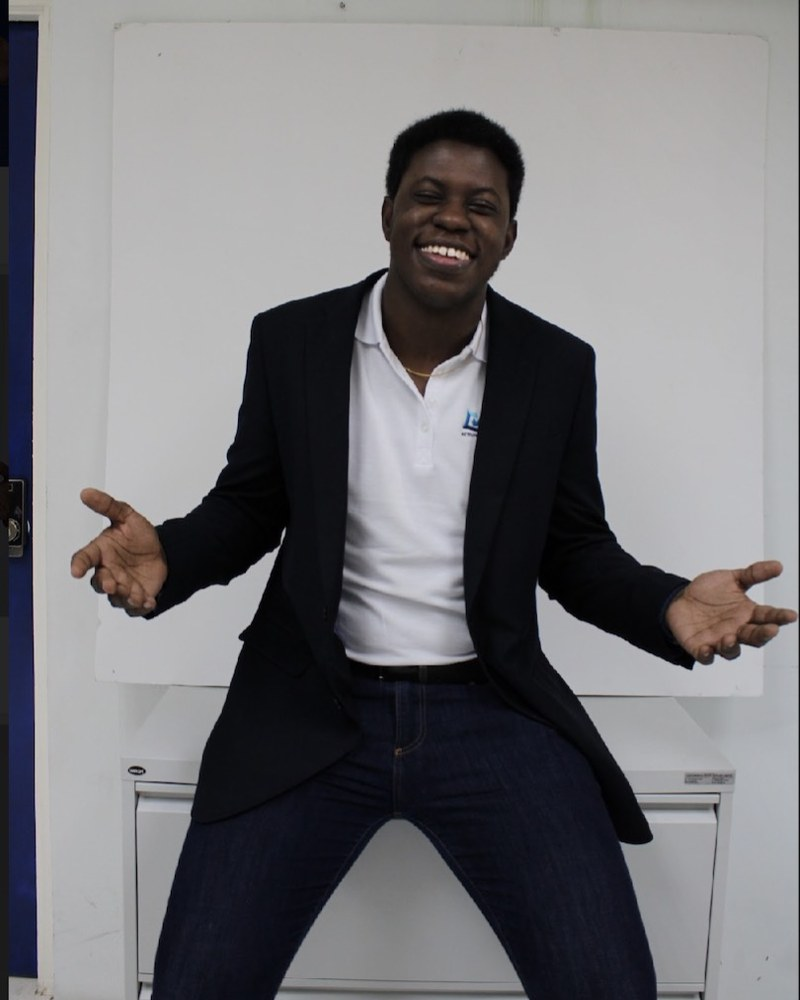
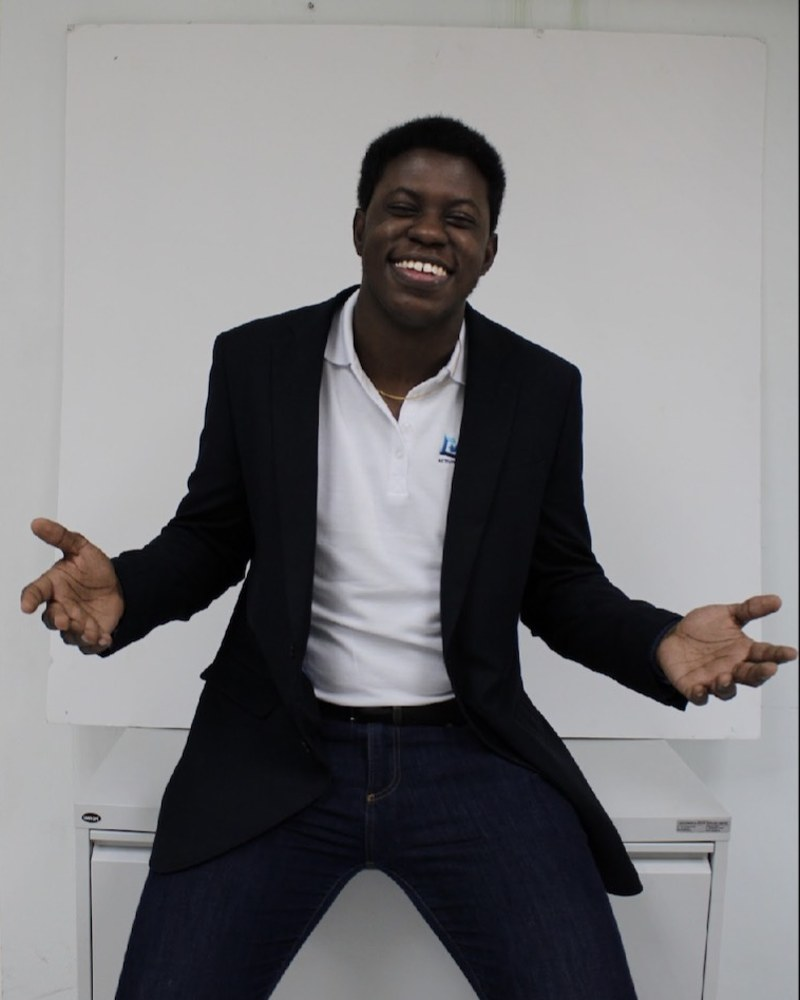
Tighter crop on portrait
Claude-Session: https://claude.ai/code/session_01XNmPaqwaabV3MtTjhGefdV

diff --git a/index.html b/index.html
@@ -52,7 +52,7 @@
 <section class="wrap hero">
   <figure class="polaroid rv">
     <div class="photo">
-      <img src="/assets/images/douglas.jpg" alt="Douglas Byfield smiling with his arms open, in a black blazer" width="800" height="1000">
+      <img src="/assets/images/douglas.jpg?v=2" alt="Douglas Byfield smiling with his arms open, in a black blazer" width="800" height="1000">
     </div>
     <figcaption>Douglas, Kingston JA</figcaption>
   </figure>
